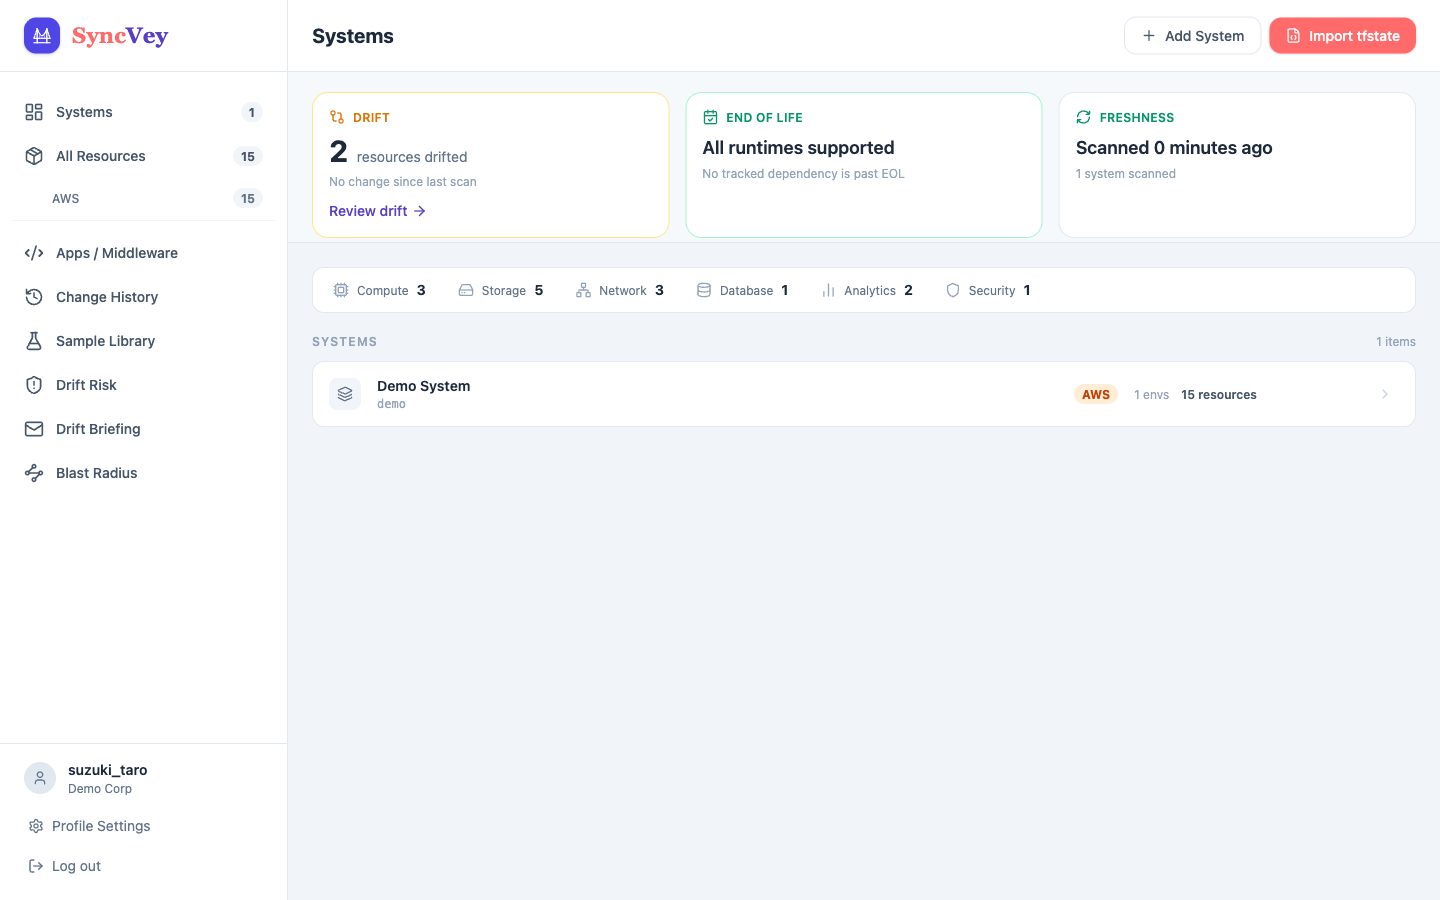
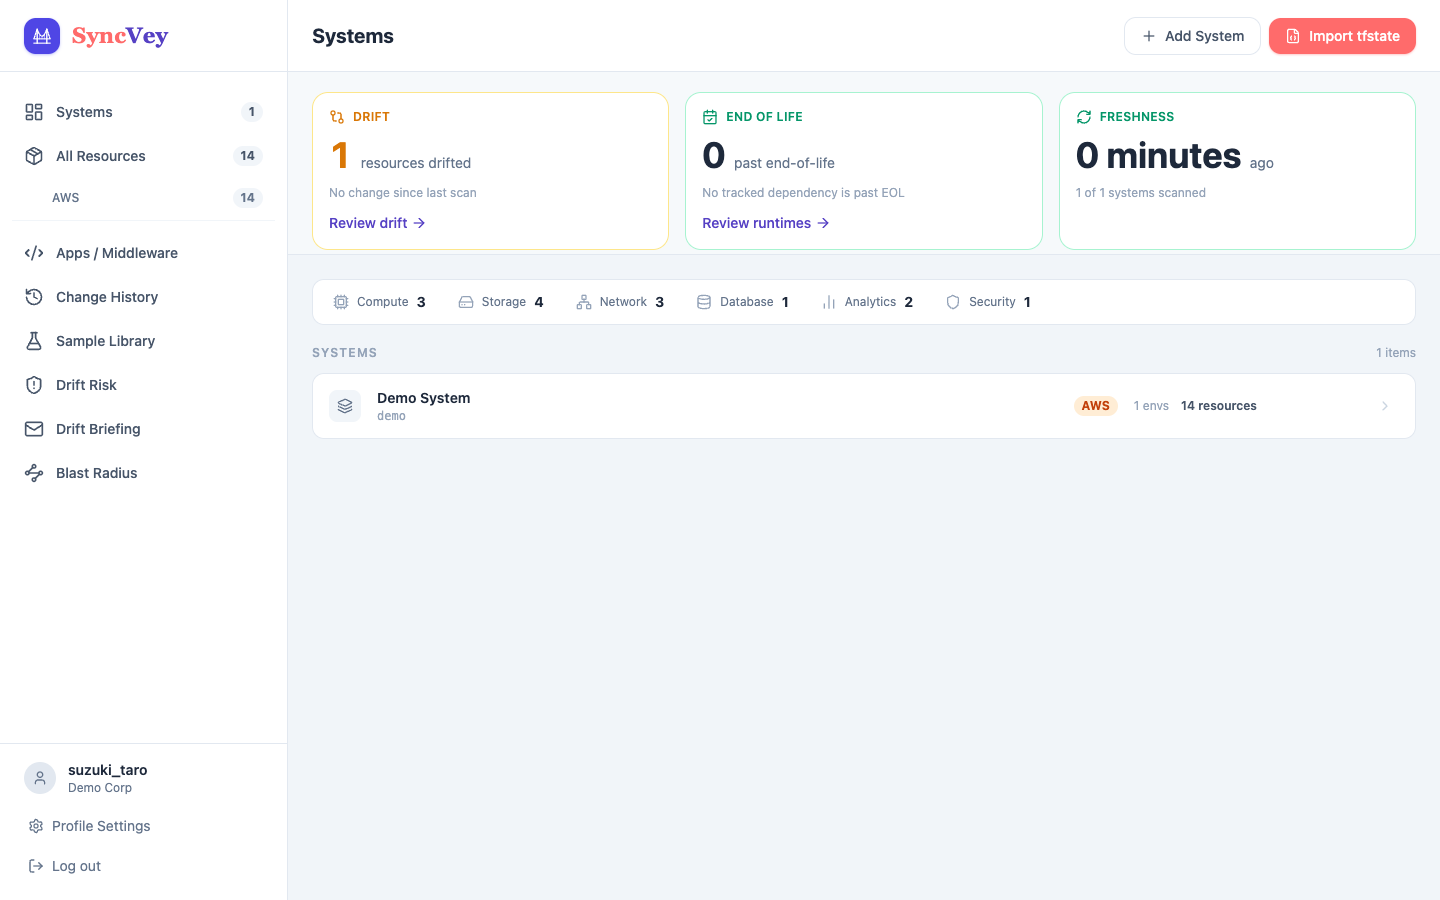
v0.6.0 の CHANGELOG を確定し、README/LPのスクリーンショットを撮り直す
ヒーロー帯とドリフト推移グラフの見た目を変えたので、docs/screenshots/ の
dashboard-{en,ja}.png / drift-history-{en,ja}.png / dashboard-hero-en.png
が実際の画面と食い違っていた。README の「AWSアカウント無しで試す」手順
（LocalStack へのシード→スキャン→SQSキュー削除とEC2停止でドリフトを
起こす→再スキャン）をそのままなぞって撮り直した。

CHANGELOG は Unreleased の2件（IAMポリシー修正／ヒーロー統合＋
ShellFallbackMiddleware）を 0.6.0 としてまとめた。

Claude-Session: https://claude.ai/code/session_01BW1BVUzqV6PaKXRc6MRKNH

diff --git a/CHANGELOG.md b/CHANGELOG.md
@@ -8,6 +8,10 @@ While the major version is `0`, minor releases may change behaviour.
 
 ## [Unreleased]
 
+## [0.6.0] — 2026-09-16
+
+Four missing IAM permissions were making four scanners fail silently.
+
 ### Fixed
 
 - **The distributed IAM policy was missing 4 permissions, so EBS, EFS, SNS,
@@ -20,6 +24,29 @@ While the major version is `0`, minor releases may change behaviour.
   surfaced as an error — the resources were just absent. Confirmed against a
   real AWS account on 2026-09-07. Added new `SyncVeyMessagingReadOnly` /
   extended `SyncVeyStorageReadOnly` statements for the 4 actions.
+
+### Changed
+
+- **The dashboard's three signal cards (drift / EOL / freshness) now share
+  one skeleton, and speak in numbers even when there's nothing to report.**
+  They used to be two different HTML blocks per card — an "alert" version
+  and an "all clear" version with different copy — so a calm-day screenshot
+  and a noisy-day screenshot looked like different products. Every card now
+  always shows label → number → one line of context → an action, and
+  "nothing wrong" renders as `0`, not a sentence, so the eye doesn't have to
+  re-read the tile to tell whether something changed. The drift trend chart
+  on the environment history page also grew a breakdown: each bar is now
+  stacked into changed/added/removed instead of one color, matching the
+  legend already used in the snapshot list below it.
+- **Opening an htmx partial URL directly (reload, bookmark, a pasted link)
+  no longer shows a bare, unstyled fragment.** Most screens in this app are
+  `#main-content` swaps that return HTML with no `<head>`, so navigating to
+  one of those URLs directly skipped the `<head>` that loads Tailwind — the
+  page rendered with classes present but no CSS applied. A new
+  `ShellFallbackMiddleware` detects a real browser navigation
+  (`Sec-Fetch-Mode: navigate`, not an htmx/fetch request) returning a bare
+  fragment, and wraps it in the same shell the normal dashboard uses, so
+  every entry point lands on the same screen.
 
 ## [0.5.0] — 2026-09-04
 
